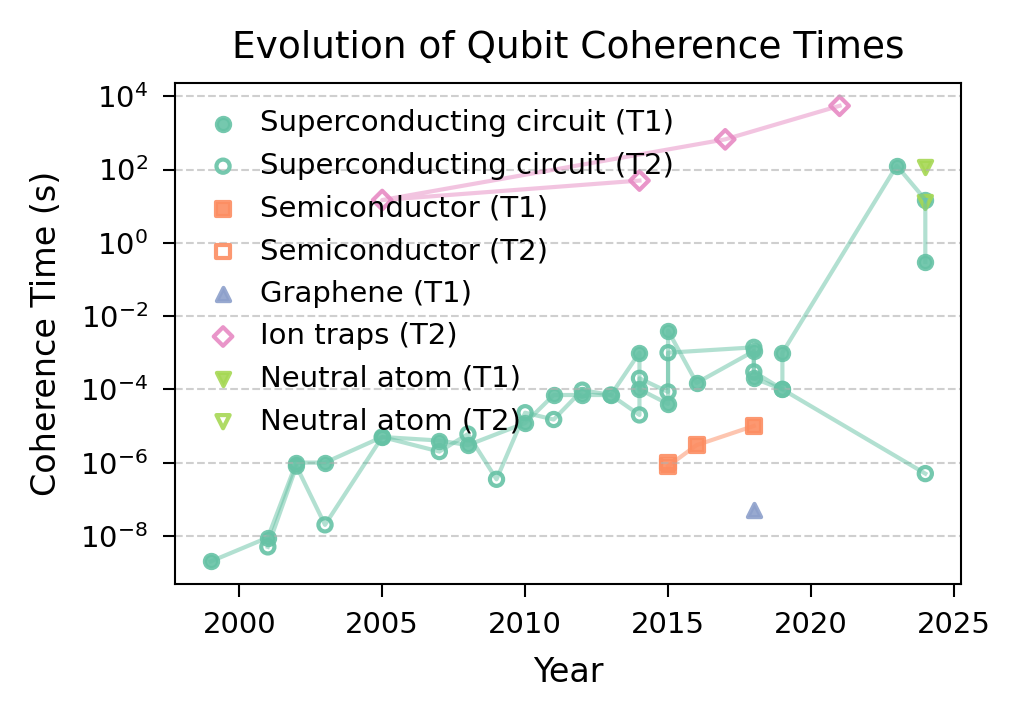
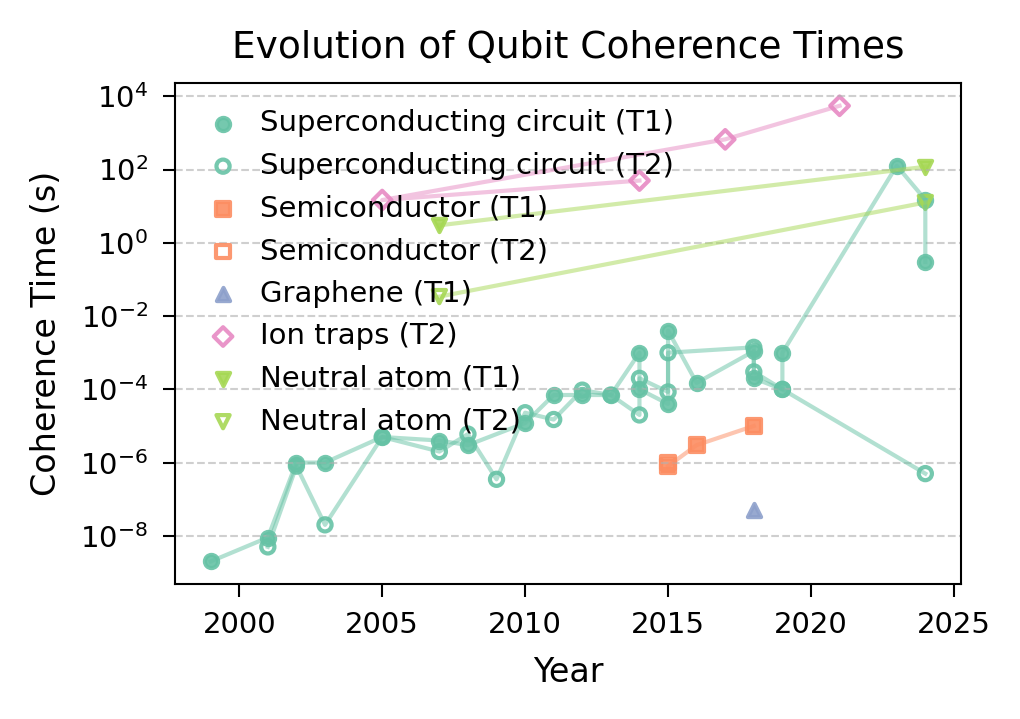
jekyll build from Action a445f2b2cbc81fef25627e06a4cc223e62f504d3

diff --git a/README.md b/README.md
@@ -62,9 +62,9 @@ For more detailed information:
 - [Physical Qubits](#physical-qubits)
 	- [Superconducting circuit](#superconducting-circuit)
 	- [Ion traps](#ion-traps)
+	- [Neutral atom](#neutral-atom)
 	- [Semiconductor](#semiconductor)
 	- [Graphene](#graphene)
-	- [Neutral atom](#neutral-atom)
 
 ## Quantum Error Correction
 
@@ -272,6 +272,11 @@ For more detailed information:
 - [Single-qubit quantum memory exceeding ten-minute coherence time](https://doi.org/10.1038/s41566-017-0007-1) (2017) - S1/2 mF=0 hyperfine levels, T2: 667.0s on Ion traps
 - [Single ion qubit with estimated coherence time exceeding one hour](https://doi.org/10.1038/s41467-020-20330-w) (2021) - S1/2 mF=0 hyperfine levels, T2: 5500.0s on Ion traps
 
+### Neutral atom
+
+- [Fast Quantum State Control of a Single Trapped Neutral Atom](https://doi.org/10.1103/PhysRevA.75.040301) (2007) - Hyperfine, T1: 3.0s, T2: 0.034s on Neutral atom, Spin-echo, dephasing time of 370µs. T1=trap lifetime in the absence of any near-resonant light
+- [A tweezer array with 6100 highly coherent atomic qubits](https://doi.org/10.48550/arXiv.2403.12021) (2024) - Hyperfine, T1: 119.0s, T2: 12.6s on Neutral atom
+
 ### Semiconductor
 
 - [A Semiconductor Nanowire-Based Superconducting Qubit](https://arxiv.org/abs/1503.08339) (2015) - Gatemon, T1: 8e-07s, T2: 1e-06s on Semiconductor
@@ -281,10 +286,6 @@ For more detailed information:
 ### Graphene
 
 - [Quantum coherent control of a hybrid superconducting circuit made with graphene-based van der Waals heterostructures](https://arxiv.org/abs/1809.05215) (2018) - Gatemon, T1: 5e-08s on Graphene
-
-### Neutral atom
-
-- [A tweezer array with 6100 highly coherent atomic qubits](https://doi.org/10.48550/arXiv.2403.12021) (2024) - Hyperfine, T1: 119.0s, T2: 12.6s on Neutral atom
 
 
 ## Contributing
